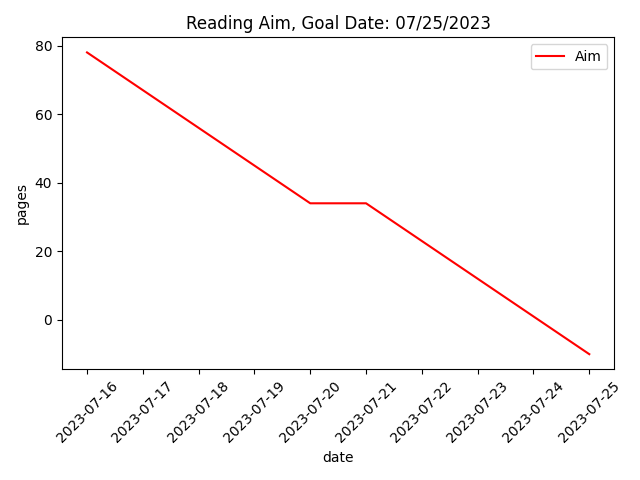
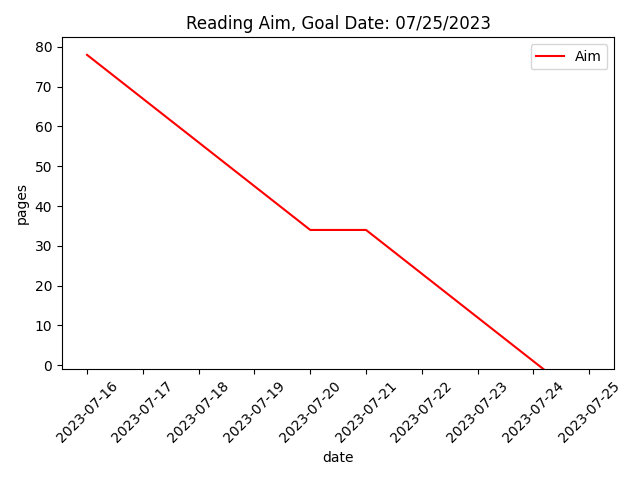
ok main.py

diff --git a/src/main.py b/src/main.py
@@ -1,8 +1,10 @@
+import os
 from typing import Optional
 import datetime
 from pathlib import Path
 
 from dda.yaml.set import load_yaml, update_yaml
+from dda.draw.progress import visualize_progress
 
 sd: str = "start_date"
 tp: str = "total_pages"
@@ -106,11 +108,23 @@ def update_progress(path_progress_yaml: str) -> None:
     
     update_yaml(path_progress_yaml, progress_data)
 
+def draw_from_yaml(aim_path: str, progress_path: str, output_dir: str) -> None:
+    aim_dict: dict = load_yaml(aim_path, is_aim=True)
+    progress_dict: dict = load_yaml(progress_path)
+    today_path: dict = os.path.join(output_dir, str(datetime.date.today())+".png")
+    visualize_progress(
+        start_date=aim_dict[sd], 
+        total_pages=aim_dict[tp], 
+        pages_per_day_goal=aim_dict[ppd], 
+        input_data=progress_dict, buffer_days=aim_dict[bd], save_path=today_path
+    )
+
 if __name__ == "__main__":
-    # edit_path:str = "../tmp_files/main.set_main.yaml"    
+    aim_path:str = "../tmp_files/main.set_main.yaml"    
     # from subprocess import run
     # run(f"rm {edit_path}", shell=True)
     # set_main(edit_path)
-    edit_path:str = "../tmp_files/main.progress.yaml"   
-    update_progress(edit_path)
-
+    progress_path:str = "../tmp_files/main.progress.yaml"   
+    # update_progress(edit_path)
+    output_dir:str = "../tmp_files"
+    draw_from_yaml(aim_path, progress_path, output_dir)

diff --git a/src/dda/draw/aim.py b/src/dda/draw/aim.py
@@ -28,7 +28,7 @@ def draw_aim(start_date: datetime.date, total_pages: int, pages_per_day_goal: in
         for i in range(num_buffers):
             print((i+1)*buffer_days+i, len(pages))
             pages.insert((i+1)*buffer_days+i, pages[(i+1)*buffer_days+i-1]) 
-
+    
     if save_path is not None:
         fig: Figure
         ax: Axes
@@ -37,6 +37,7 @@ def draw_aim(start_date: datetime.date, total_pages: int, pages_per_day_goal: in
         ax.set_xlabel('date')
         ax.set_ylabel('pages')
         ax.set_title('Reading Aim, Goal Date: ' + goal_date.strftime("%m/%d/%Y"))
+        ax.set_ylim(bottom=-1)
         ax.legend()
         plt.xticks(rotation=45)
         plt.tight_layout()
@@ -57,6 +58,9 @@ if __name__ == "__main__":
     draw_aim(datetime.date.today(), 590, 10, buffer_days= 7, save_path = save_file_buffer7)
     save_file_buffer7: str = "../../../tmp_files/aim.draw_aim.buffer.not_splitted.png"
     draw_aim(datetime.date.today(), 78, 11, buffer_days= 5, save_path = save_file_buffer7)
+
+    save_file_concerned: str = "../../../tmp_files/aim.concerned.png"
+    draw_aim(datetime.date.today(), 21, 10, buffer_days= 2, save_path = save_file_concerned)
 
     
     dates: DatetimeIndex

diff --git a/src/dda/draw/progress.py b/src/dda/draw/progress.py
@@ -28,13 +28,14 @@ def visualize_progress(
         ax.plot(aim_dates, aim_pages, 'r-', alpha=0.5)
         ax.plot(date_keys_actual, plot_summation_list, 'b.', label='Progress')
         ax.plot(date_keys_actual, plot_summation_list, 'b-', alpha=0.5)
+        ax.set_ylim(bottom=-1)
         ax.set_xlabel('Date')
         ax.set_ylabel('Pages Read')
         ax.set_title('Reading Progress')
         ax.legend()
         plt.xticks(rotation=45)
         plt.tight_layout()
-        plt.savefig(save_file)
+        plt.savefig(save_path)
         plt.show()
     else:
         return (aim_dates, aim_pages), (date_keys_actual, plot_summation_list)
